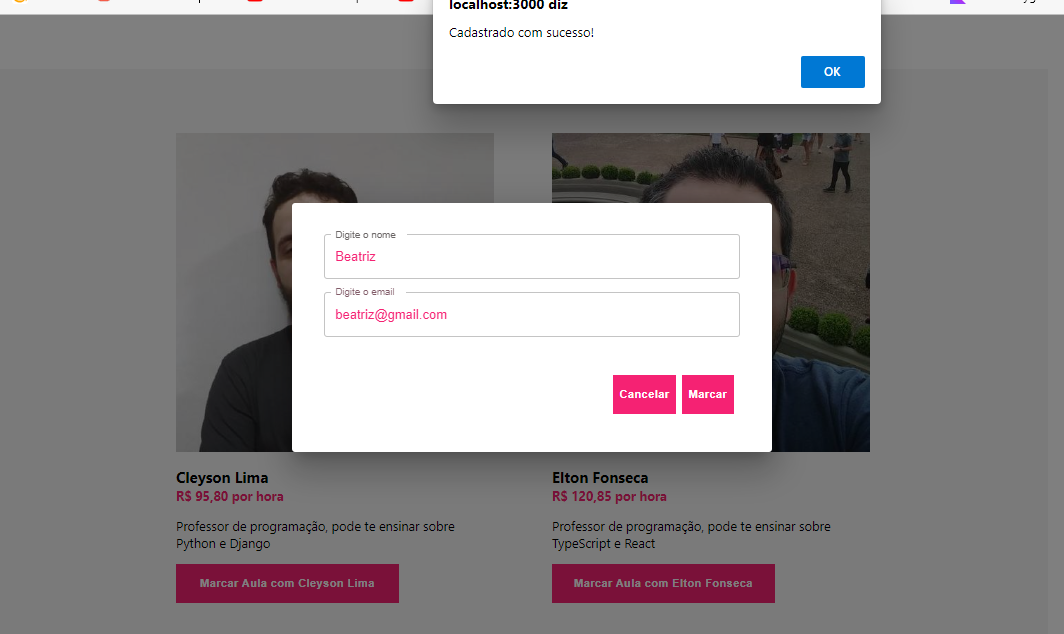
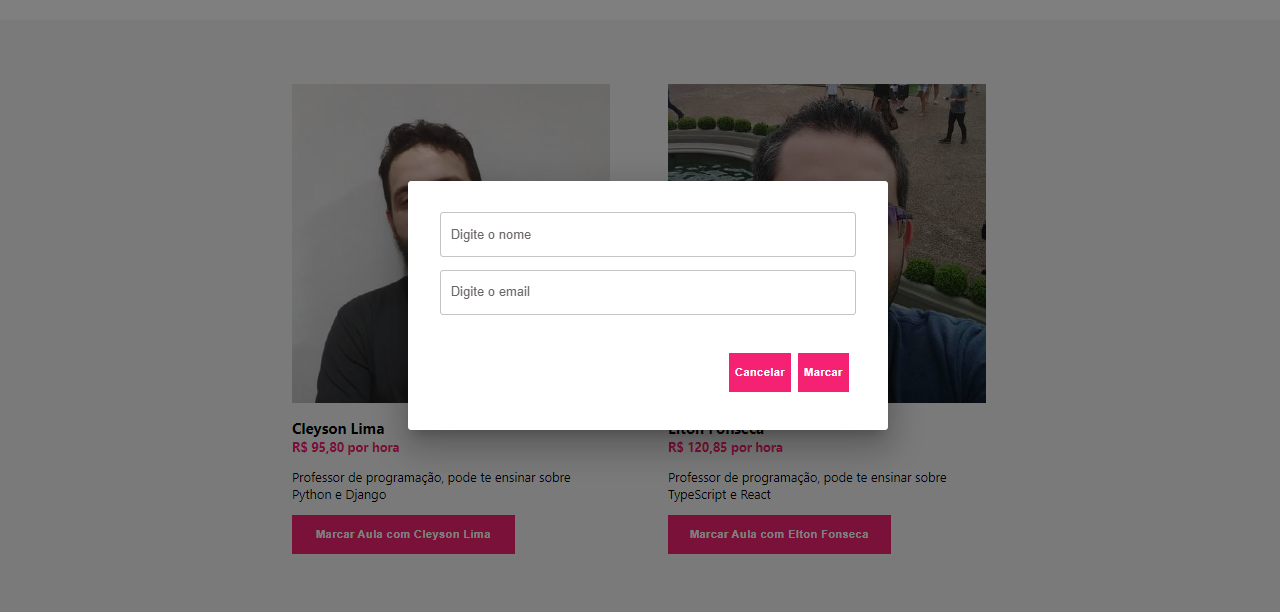
commit

Changed region(s): [[0.0, 0.0, 1.0, 0.9624]]

diff --git a/frontend/src/hooks/pages/useIndex.ts b/frontend/src/hooks/pages/useIndex.ts
@@ -7,12 +7,17 @@ export function useIndex() {
   const [nome, setNome] = useState('');
   const [email, setEmail] = useState('');
   const [professorSelecionado, setProfessorSelecionado] = useState<Professor | null>(null)
+  const [mensagem, setMensagem] = useState('');
 
   useEffect(() => {
     ApiService.get('/professores').then((resposta) => {
       setLisraProfessores(resposta.data);
     })
   }, []);
+
+  useEffect(() => {
+    limparFormulario();
+  }, [professorSelecionado]);
 
   function marcarAula() {
     if (professorSelecionado !== null) {
@@ -22,18 +27,23 @@ export function useIndex() {
           email
         }).then(() => {
           setProfessorSelecionado(null);
-          alert('Cadastrado com sucesso!')
+          setMensagem('Cadastrado com sucesso!')
         }).catch((error) => {
-          alert(error.response?.data.message);
+          setMensagem(error.response?.data.message);
         });
       } else {
-          alert('Preencha os dados corretamente')
+          setMensagem('Preencha os dados corretamente')
       }
     }
   }
 
   function validarDadosAula() {
     return nome.length > 0 && email.length > 0;
+  }
+
+  function limparFormulario() {
+    setNome('');
+    setEmail('');
   }
 
   return {
@@ -44,6 +54,8 @@ export function useIndex() {
     setEmail,
     professorSelecionado, 
     setProfessorSelecionado, 
-    marcarAula
+    marcarAula,
+    mensagem, 
+    setMensagem
   }
 }

diff --git a/frontend/pages/index.tsx b/frontend/pages/index.tsx
@@ -1,4 +1,4 @@
-import { Box, Dialog, DialogActions, Grid, TextField, Button } from '@mui/material'
+import { Box, Dialog, DialogActions, Grid, TextField, Button, Snackbar } from '@mui/material'
 import type { NextPage } from 'next'
 import { Professor } from '../src/@types/professor'
 import Lista from '../src/components/Lista/Lista'
@@ -13,7 +13,9 @@ const Home: NextPage = () => {
     setEmail, 
     professorSelecionado, 
     setProfessorSelecionado,
-    marcarAula 
+    marcarAula,
+    mensagem, 
+    setMensagem 
   } = useIndex(); 
 
   return (
@@ -53,6 +55,13 @@ const Home: NextPage = () => {
           <Button onClick={() => marcarAula()}>Marcar</Button>
         </DialogActions>
       </Dialog>
+
+      <Snackbar 
+        message={mensagem} 
+        open={mensagem.length > 0}
+        autoHideDuration={2500}
+        onClose={() => setMensagem('')} 
+      />
     </div>
   )
 }

diff --git a/README.md b/README.md
@@ -6,3 +6,192 @@ Desenvolvendo projeto com React, Next, Python, Django.
 - O que são e como trabalhar com componentes
 - Como criar uma página completa usando essas ferramentas
 
+## Criação do Projeto
+
+- Habilitar a execução de scripts no Windows:
+    
+    `Set-ExecutionPolicy -Scope Process -ExecutionPolicy Bypass`
+    
+- Criar o projeto
+    
+    `npx create-next-app . --ts` 
+    
+- Iniciar o servidor
+    
+    `npm run dev`
+
+## Conhecendo a estrutura do projeto
+
+- Estrutura do projeto
+- Modificar a página principal com Hello World!
+- O que são e como criar o primeiro componente
+
+## Criando componentes estilizados
+
+- Instalar Material UI
+    
+    `npm i @mui/material@5.10.2 @emotion/react@11.10.0 @emotion/styled@11.10.0`
+    
+- Remover estilização no arquivo `globals.css` da pasta `styles`
+- Criar pasta `src` na raiz do projeto
+- Criar pasta `components` em  `src`
+- Criar o componente `Cabecalho`
+- Inserir a imagem de logo na pasta `public`
+
+- Instalar a extensão `vscode-styled-components`
+
+## Configurando o tema
+
+- Criar uma pasta chamada `themes` dentro de `src`
+- Criar o arquivo chamado `theme.ts` com o seguinte conteúdo.
+- 🎨 Criar o arquivo chamado `theme.ts` com o seguinte conteúdo (clique aqui para abrir)
+    
+    ```jsx
+    import { createTheme } from '@mui/material';
+    
+    const tema = createTheme({
+        palette: {
+            primary: {
+                main: '#F52273',
+            },
+            secondary: {
+                main: '#F5F5F5',
+            },
+            text: {
+                primary: '#F52273',
+                secondary: '#6c6767',
+            },
+        },
+        components: {
+            MuiButton: {
+                styleOverrides: {
+                    root: {
+                        color: '#FFF',
+                        borderRadius: '0',
+                        backgroundColor: '#F52273',
+                        textTransform: 'none',
+                        fontWeight: 'bold',
+                        paddingTop: '12px',
+                        paddingBottom: '12px',
+                        ":hover": {
+                            backgroundColor: '#F52273',
+                        }
+    
+                    },
+                },
+            },
+            MuiTextField: {
+                defaultProps: {
+                    InputLabelProps: {
+                        required: false,
+                    },
+                    required: true,
+                },
+            },
+        },
+    });
+    
+    export default tema;
+    ```
+    
+- Definir o tema em `_app.tsx`
+
+## Criar a listagem de professores
+
+- Criar o componente `Lista` de professores
+
+- Criar os itens dentro da lista de professores
+
+- Criar a pasta `@types` dentro de `src`
+
+- Criar o arquivo `professor.ts` dentro da pasta `@types`
+
+- Criar a lista de professores para exibir
+
+## Listar os professores via API
+
+- O que são os React Hooks
+- Conhecendo o hook `useState`
+- Criar a pasta `hooks` em `src`
+- Criar a pasta `pages` em `hooks`
+- Criar o arquivo `useIndex.ts` na pasta `pages` e definir a lista de professores
+- Instalar o Axios
+    
+    `npm i axios@0.27.2`
+    
+- Criar a pasta `services` dentro de `src`
+- Criar o arquivo `ApiService.ts` na pasta `services`
+- Iniciar o serviço de back-end
+- Windows
+    
+    ```powershell
+    .\.venv\Scripts\activate
+    python manage.py runserver
+    ```
+    
+- Linux/MacOS
+    
+    ```bash
+    source .venv/bin/activate
+    python manage.py runserver
+    ```
+    
+- Buscar os dados dinamicamente na API back-end
+- Criar o arquivo `FormatadorService.ts` na pasta `services`
+- Formatar o valor monetário
+- Limitar o tamanho do texto da descrição
+
+## Marcar aula com professor
+
+- Mostrar o diálogo com os campos e botões
+- Passar o valor dos campos para o `useIndex`
+- Definir o professor selecionado
+- Lógica para fechar o diálogo
+- Enviar o pedido a solicitação de marcação de aula
+- Mostrar feedback para o usuário usando a `snackbar`
+- Limpar o formulário
+
+## Problemas comuns
+
+- Windows diz que não tenho permissão para executar o comando
+    - Execute:
+    `Set-ExecutionPolicy -Scope Process -ExecutionPolicy Bypass`
+- Os comandos não funcionam
+    - Se tiver algum anti-vírus, desative-o
+    - Verifique se digitou corretamente
+    - Verifique se está dentro da pasta correta
+    - Tente atualizar o NPM executando:
+        
+        `npm install -g npm@latest --force`
+        
+    - Limpe o cache com o comando:
+        
+        `npm cache clean --force`
+        
+    - Feche o terminal e abra novamente
+- Ao executar a criação do projeto recebe a mensagem: `O termo ‘npm’ não é reconhecido como nome de cmdlet…`
+    - Certifique que baixou o nome e instalou corretamente, você pode baixar o node nesse link [https://nodejs.org/dist/v16.17.1/node-v16.17.1-x86.msi](https://nodejs.org/dist/v16.17.1/node-v16.17.1-x86.msi)
+    - Fecha e abre o Visual Studio Code para ter certeza que o terminal está reconhecendo o comando após instalar o node.
+- Meu VS Code está diferente
+    - Isso não é um problema. A aparência do VS Code é customizável. Isso não irá influenciar na aula.
+- Minhas pastas no VS Code são criadas todas juntas, por exemplo: "src/ui/components"
+    - O VS Code junta o nome das pastas vazias. Você pode mudar esse comportamento indo em `File > Preferences > Settings`
+    Pesquise por "Compact folders"
+    Desmarque o checkbox da configuração `Explorer: Compact Folders`
+- O comando de criar projeto inicia, mas não finaliza (ou termina com erro)
+    - Pode ser que o processo de instalação tenha travado. Você pode forçar a finalização desse processo seguindo este guia:
+    [https://www.theopenindia.com/2021/04/found-0-vulnerabilities-how-to-fix-this-create-react-app-problem-.html](https://www.theopenindia.com/2021/04/found-0-vulnerabilities-how-to-fix-this-create-react-app-problem-.html)
+- PORT 3000 is already in use
+    - Sua porta 3000 já está sendo usada. No arquivo `package.json` altere o comando `next dev` para `next dev --port 3001` e tente acessar agora por `[http://localhost:3001](http://localhost:3001)` ou reinicie o computador
+- Mensagem de erro no navegador, dizendo "Module not found"
+    - Um arquivo não foi encontrado. Verifique se digitou tudo certo como está na aula, se todos os arquivos que você alterou foram salvos e se todas as pastas e arquivos estão na estrutura correta
+- Meu arquivo `tsconfig.json` não foi criado automaticamente
+    - Veja se você criou o projeto com `--ts`
+- Mensagem de Token não reconhecido
+    - O PowerShell pode dar erro ao executar um comando com `@`. Coloque aspas em volta do comando, como:
+        
+        `npm i axios "@mui/material"`
+        
+- Minha pasta foi criada mas está vazia
+    - O projeto não foi criado corretamente e nem teve sua instalação concluída. Apague a pasta e execute `npx create-next-app . --ts`  novamente
+
